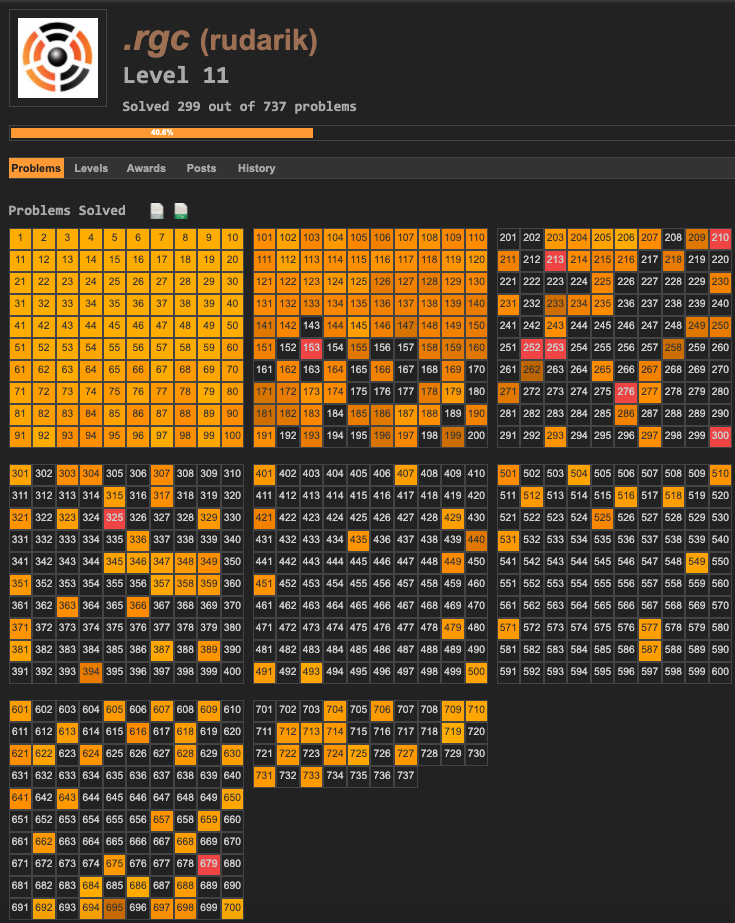
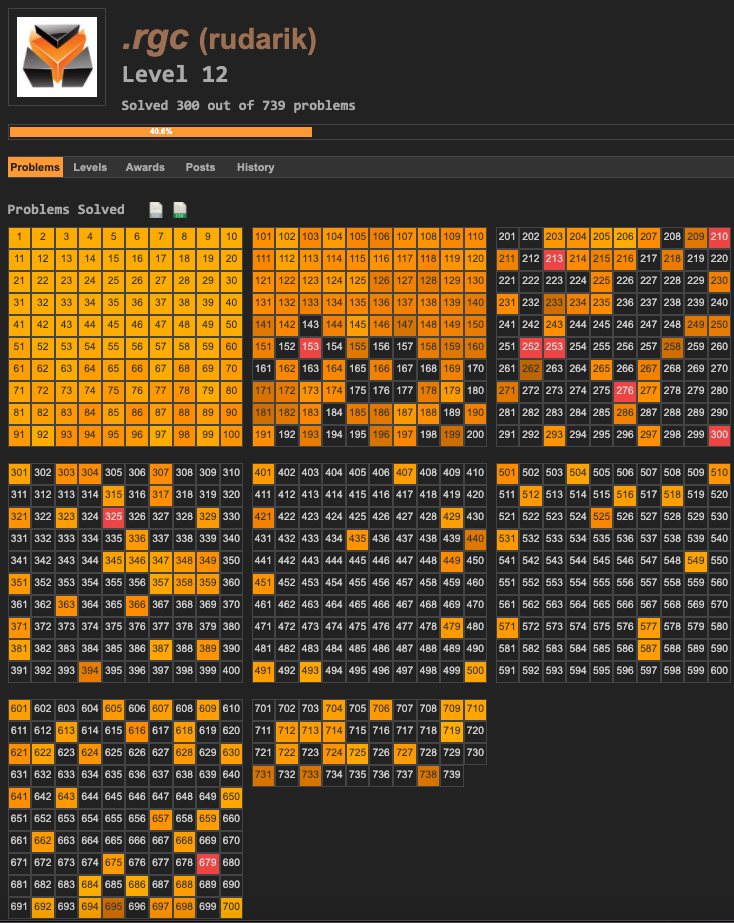
solved 738

Changed region(s): [[0.0, 0.0, 1.0, 1.0]]

diff --git a/README.md b/README.md
@@ -153,6 +153,8 @@ Problem 213: "Searching for a maximum-sum subsequence"
 
 * [Memoization](https://en.wikipedia.org/wiki/Memoization)
 
+Problem 738: "Counting Ordered Factorisations"
+
 * [Mobius Function](https://en.wikipedia.org/wiki/M%C3%B6bius_function)
 
 Problem 193: "Squarefree Numbers"
